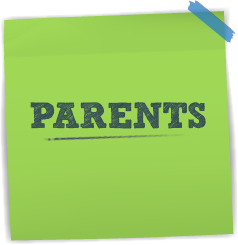
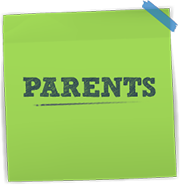
Added parents and teachers inbox and rewards not logged in pages.

diff --git a/app/assets/stylesheets/_layout.css.scss b/app/assets/stylesheets/_layout.css.scss
@@ -576,17 +576,17 @@ input, textarea, select {
 
 .teachers-inbox-cta {
   background-image: url(asset_path('teachers_inbox_cta.png', image));
-  height: 278px;
-  width: 270px;
+  height: 185px;
+  width: 180px;
   position: absolute;
-  top: 250px;
-  left: 900px;
+  top: 200px;
+  left: 930px;
 }
 
 .parents-inbox-cta {
   background-image: url(asset_path('parents_inbox_cta.png', image));
-  height: 245px;
-  width: 238px;
+  height: 185px;
+  width: 180px;
   position: absolute;
   top: 0;
   left: 945px;  
@@ -753,6 +753,20 @@ input, textarea, select {
   top: 30px;
   left: 500px;
   position: absolute;
+}
+
+.inbox-parents {
+  display: inline-block;
+  height: 100px;
+  width: 180px;
+  margin: 40px 50px 0 0;
+}
+
+.inbox-teachers {
+  display: inline-block;
+  height: 100px;
+  width: 160px;
+  margin: 50px 0 0 20px;
 }
 
 /* Pages */
